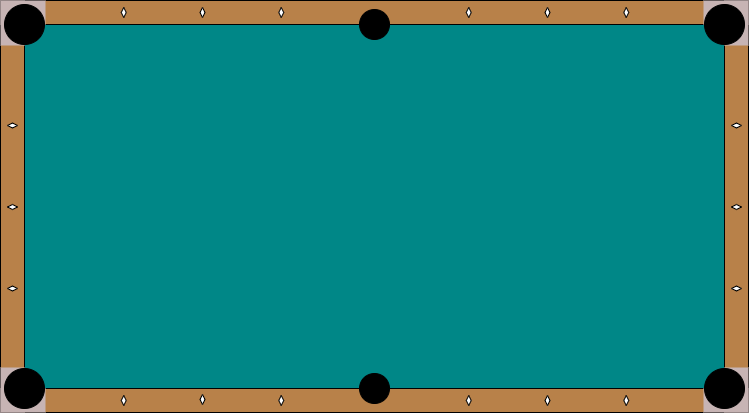
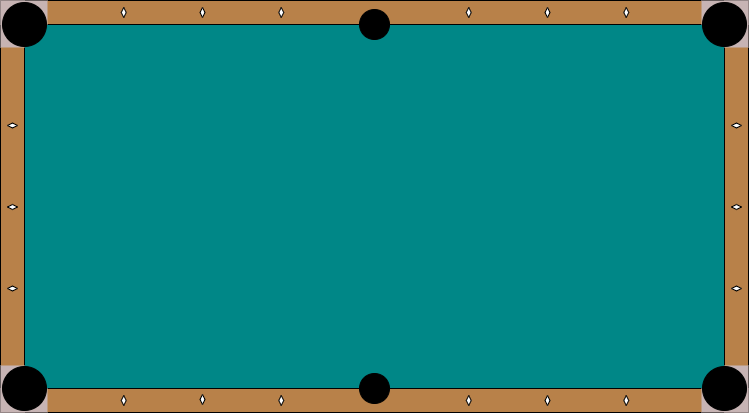
Korner pocket sizes are bigger (which means corner cushions are wider)

diff --git a/gameobjects/Cushion.java b/gameobjects/Cushion.java
@@ -42,10 +42,10 @@ public class Cushion{
 
     public static Cushion[] getStandardCushionArray(){
         Cushion[] cushions = new Cushion[18];
-        double[] numbers1 = {24.,38.,38.,44.,58.,354.,389.,394.,690.,724.,710.,710.,704.,690.,394.,359.,354.,58.};
-        double[] numbers2 = {44.,58.,354.,388.,374.,374.,388.,374.,374.,368.,354.,58.,24.,38.,38.,24.,38.,38.};
-        double[] numbers3 = {38.,38.,24.,58.,354.,359.,394.,690.,704.,710.,710.,724.,690.,394.,389.,354.,58.,44.};
-        double[] numbers4 = {58.,354.,368.,374.,374.,388.,374.,374.,388.,354.,58.,44.,38.,38.,24.,38.,38.,24.};
+        double[] numbers1 = {24.,38.,38.,46.,60.,354.,389.,394.,688.,724.,710.,710.,702.,688.,394.,359.,354.,60.};
+        double[] numbers2 = {46.,60.,352.,388.,374.,374.,388.,374.,374.,366.,352.,60.,24.,38.,38.,24.,38.,38.};
+        double[] numbers3 = {38.,38.,24.,60.,354.,359.,394.,688.,702.,710.,710.,724.,688.,394.,389.,354.,60.,46.};
+        double[] numbers4 = {60.,352.,366.,374.,374.,388.,374.,374.,388.,352.,60.,46.,38.,38.,24.,38.,38.,24.};
 
         for(int i = 0; i < cushions.length; i++){
             cushions[i] = new Cushion(numbers1[i]/TableUI.getTableWidthPixels() * TableUI.getTableWidthMeters(),numbers2[i]/TableUI.getTableHeightPixels() * TableUI.getTableHeightMeters(),0,

diff --git a/ui/PoolPanel.java b/ui/PoolPanel.java
@@ -63,7 +63,7 @@ public class PoolPanel extends JPanel implements ActionListener{
         for(Ball ball : ballArray)
             ballUIs.add(new BallUI(ball));
         Table table = new Table(ballArray);
-        this.tableUI = new TableUI("table1.png", table, ballUIs, this);
+        this.tableUI = new TableUI("table6.png", table, ballUIs, this);
         tableUI.setBounds(tableUI.getTableFrameX(), tableUI.getTableFrameY(), TableUI.getTableWidthPixels(), TableUI.getTableHeightPixels());
         this.add(tableUI);
 

diff --git a/gameobjects/Pocket.java b/gameobjects/Pocket.java
@@ -32,7 +32,7 @@ public class Pocket {
         Pocket[] pockets = new Pocket[6];
         double[] xs = {24, 24, 374, 724, 724, 374};
         double[] ys = {24, 386, 386, 386, 24, 24};
-        double[] rs = {20, 20, 15, 20, 20, 15};
+        double[] rs = {22, 22, 15, 22, 22, 15};
 
         for(int i = 0; i < 6; i++){
             pockets[i] = new Pocket(new Vector3(xs[i] / TableUI.getTableWidthPixels() * TableUI.getTableWidthMeters(), 
